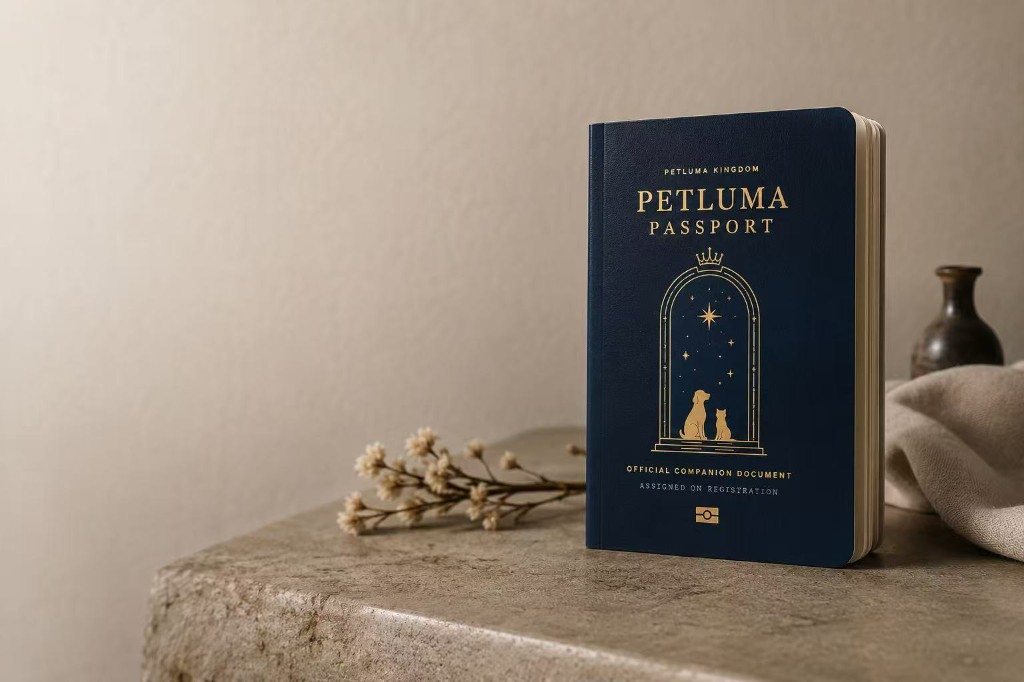
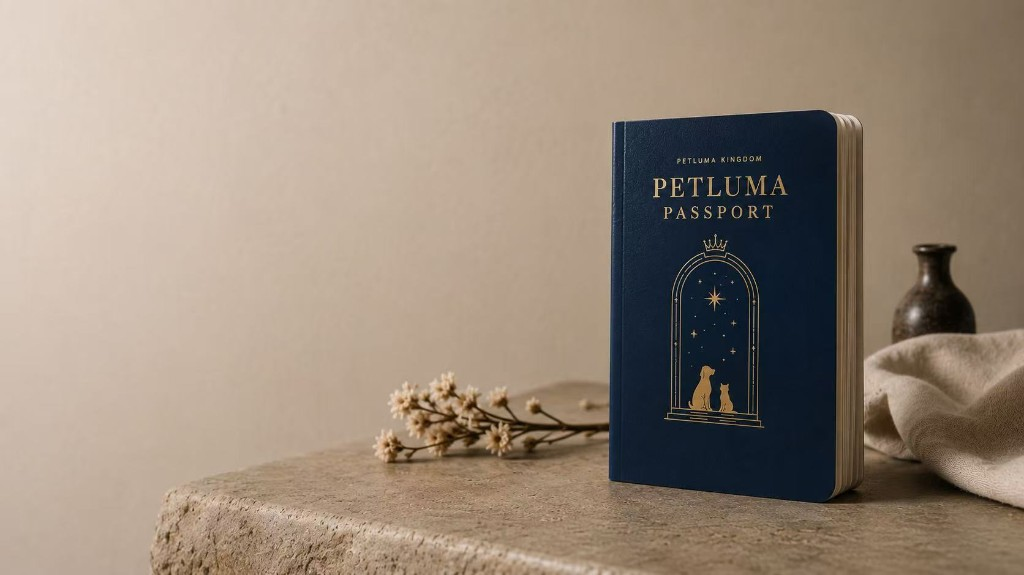
redesign hero as unified editorial scene with new passport photo

Changed region(s): [[0.125, 0.1478, 1.0, 1.0], [0.875, 0.0, 1.0, 0.1774]]

diff --git a/src/styles/registry-home.css b/src/styles/registry-home.css
@@ -145,91 +145,77 @@
 }
 
 .registry-home .hero-section__inner {
-  position: relative;
-  z-index: 2;
   display: flex;
   height: 100%;
   align-items: center;
   padding-top: var(--site-header-height);
   padding-bottom: 2rem;
-  pointer-events: none;
+}
+
+.registry-home .hero-section__grid {
+  display: grid;
+  width: 100%;
+  align-items: center;
+  gap: 2rem;
 }
 
 .registry-home .hero-section__content {
   max-width: min(620px, 100%);
-  pointer-events: auto;
 }
 
 .registry-home .hero-section__visual {
-  position: absolute;
-  inset: 0;
+  position: relative;
+  width: 100%;
+  overflow: hidden;
   margin: 0;
   padding: 0;
   border: none;
   border-radius: 0;
   box-shadow: none;
   background: none;
-  overflow: hidden;
 }
 
 .registry-home .hero-section__image {
   object-fit: cover;
-  object-position: 58% 42%;
-  transform: scale(1.3);
-  transform-origin: 58% 42%;
-}
-
-.registry-home .hero-section__visual-blend {
-  position: absolute;
-  inset: 0;
-  z-index: 1;
-  pointer-events: none;
-  background: linear-gradient(
-    90deg,
-    #f3f0ea 0%,
-    #f3f0ea 8%,
-    rgba(243, 240, 234, 0.96) 18%,
-    rgba(243, 240, 234, 0.72) 30%,
-    rgba(243, 240, 234, 0.28) 42%,
-    rgba(243, 240, 234, 0.08) 52%,
-    transparent 62%
-  );
+  object-position: 70% 50%;
+  transform: scale(1.2);
+  transform-origin: 70% 50%;
 }
 
 @media (min-width: 1024px) {
+  .registry-home .hero-section__grid {
+    grid-template-columns: minmax(0, 41fr) minmax(0, 59fr);
+    gap: 0;
+    min-height: calc(var(--hero-height) - var(--site-header-height) - 2rem);
+  }
+
   .registry-home .hero-section__content {
-    width: min(32vw, 400px);
-    max-width: 400px;
+    max-width: min(400px, 100%);
+    padding-right: clamp(1.5rem, 3vw, 2.5rem);
+  }
+
+  .registry-home .hero-section__visual {
+    height: calc((var(--hero-height) - var(--site-header-height) - 2rem) * 0.775);
+    min-height: calc((var(--hero-height) - var(--site-header-height) - 2rem) * 0.775);
+    align-self: center;
+    margin-right: calc(50% - 50vw);
   }
 
   .registry-home .hero-section__image {
-    object-position: 56% 40%;
-    transform: scale(1.3);
-    transform-origin: 56% 40%;
-  }
-
-  .registry-home .hero-section__visual-blend {
-    background: linear-gradient(
-      90deg,
-      #f3f0ea 0%,
-      #f3f0ea 10%,
-      rgba(243, 240, 234, 0.94) 20%,
-      rgba(243, 240, 234, 0.62) 32%,
-      rgba(243, 240, 234, 0.22) 44%,
-      rgba(243, 240, 234, 0.04) 54%,
-      transparent 64%
-    );
+    object-position: 74% 48%;
+    transform: scale(1.2);
+    transform-origin: 74% 48%;
   }
 }
 
 @media (min-width: 1280px) {
   .registry-home .hero-section__content {
-    width: min(30vw, 420px);
+    max-width: min(420px, 100%);
   }
 
   .registry-home .hero-section__image {
-    object-position: 55% 38%;
-    transform-origin: 55% 38%;
+    object-position: 76% 46%;
+    transform-origin: 76% 46%;
   }
 }
 
@@ -241,33 +227,23 @@
   }
 
   .registry-home .hero-section__inner {
-    min-height: calc(100svh - var(--site-header-height));
     align-items: flex-start;
     padding-top: calc(var(--site-header-height) + 1.5rem);
-    padding-bottom: clamp(22rem, 58vw, 28rem);
+    padding-bottom: 2.5rem;
+  }
+
+  .registry-home .hero-section__grid {
+    gap: 2.5rem;
   }
 
   .registry-home .hero-section__visual {
-    top: auto;
-    bottom: 0;
-    height: clamp(20rem, 58vw, 28rem);
+    height: clamp(18rem, 52vw, 24rem);
   }
 
   .registry-home .hero-section__image {
-    object-position: 50% 46%;
-    transform: scale(1.22);
-    transform-origin: 50% 46%;
-  }
-
-  .registry-home .hero-section__visual-blend {
-    background: linear-gradient(
-      180deg,
-      #f3f0ea 0%,
-      rgba(243, 240, 234, 0.92) 14%,
-      rgba(243, 240, 234, 0.45) 32%,
-      rgba(243, 240, 234, 0.12) 48%,
-      transparent 62%
-    );
+    object-position: 68% 50%;
+    transform: scale(1.2);
+    transform-origin: 68% 50%;
   }
 }
 

diff --git a/src/components/home/HeroSection.tsx b/src/components/home/HeroSection.tsx
@@ -3,35 +3,36 @@ import { RegistryButton } from "./ui";
 
 export function HeroSection() {
   return (
-    <section id="home" className="hero-section relative">
-      <div className="hero-section__visual">
-        <Image
-          src="/hero-passport.png"
-          alt="PetLuma Passport displayed on stone with dried flowers and ceramic vase"
-          fill
-          priority
-          sizes="100vw"
-          className="hero-section__image"
-        />
-        <div className="hero-section__visual-blend" aria-hidden="true" />
-      </div>
-
+    <section id="home" className="hero-section">
       <div className="hero-section__inner mx-auto w-full max-w-[1440px] px-6 md:px-10">
-        <div id="passport" className="hero-section__content relative z-10 text-left">
-          <h1 className="font-[family-name:var(--font-cormorant)] text-[2.65rem] font-medium leading-[1.02] tracking-[-0.02em] text-[#2e2820] sm:text-5xl md:text-[3.35rem] lg:text-[3.75rem] xl:text-[4.25rem]">
-            Every companion
-            <span className="block">deserves to be</span>
-            <span className="block">remembered.</span>
-          </h1>
-          <p className="mt-8 font-sans text-[14px] leading-[1.85] text-[#6b6358] md:mt-10 md:text-[15px] md:leading-8">
-            PetLuma Kingdom Registry preserves companion identities, memories, and stories
-            for generations to come.
-          </p>
-          <div className="mt-10 flex flex-col gap-3 sm:flex-row sm:items-start md:mt-12">
-            <RegistryButton href="/create">Register Companion</RegistryButton>
-            <RegistryButton href="#registry" variant="secondary">
-              Explore the Kingdom
-            </RegistryButton>
+        <div className="hero-section__grid">
+          <div id="passport" className="hero-section__content text-left">
+            <h1 className="font-[family-name:var(--font-cormorant)] text-[2.65rem] font-medium leading-[1.02] tracking-[-0.02em] text-[#2e2820] sm:text-5xl md:text-[3.35rem] lg:text-[3.75rem] xl:text-[4.25rem]">
+              Every companion
+              <span className="block">deserves to be</span>
+              <span className="block">remembered.</span>
+            </h1>
+            <p className="mt-8 font-sans text-[14px] leading-[1.85] text-[#6b6358] md:mt-10 md:text-[15px] md:leading-8">
+              PetLuma Kingdom Registry preserves companion identities, memories, and stories
+              for generations to come.
+            </p>
+            <div className="mt-10 flex flex-col gap-3 sm:flex-row sm:items-start md:mt-12">
+              <RegistryButton href="/create">Register Companion</RegistryButton>
+              <RegistryButton href="#registry" variant="secondary">
+                Explore the Kingdom
+              </RegistryButton>
+            </div>
+          </div>
+
+          <div className="hero-section__visual">
+            <Image
+              src="/hero-passport.png"
+              alt="PetLuma Passport on stone with dried flowers"
+              fill
+              priority
+              sizes="(max-width: 1024px) 100vw, 58vw"
+              className="hero-section__image"
+            />
           </div>
         </div>
       </div>